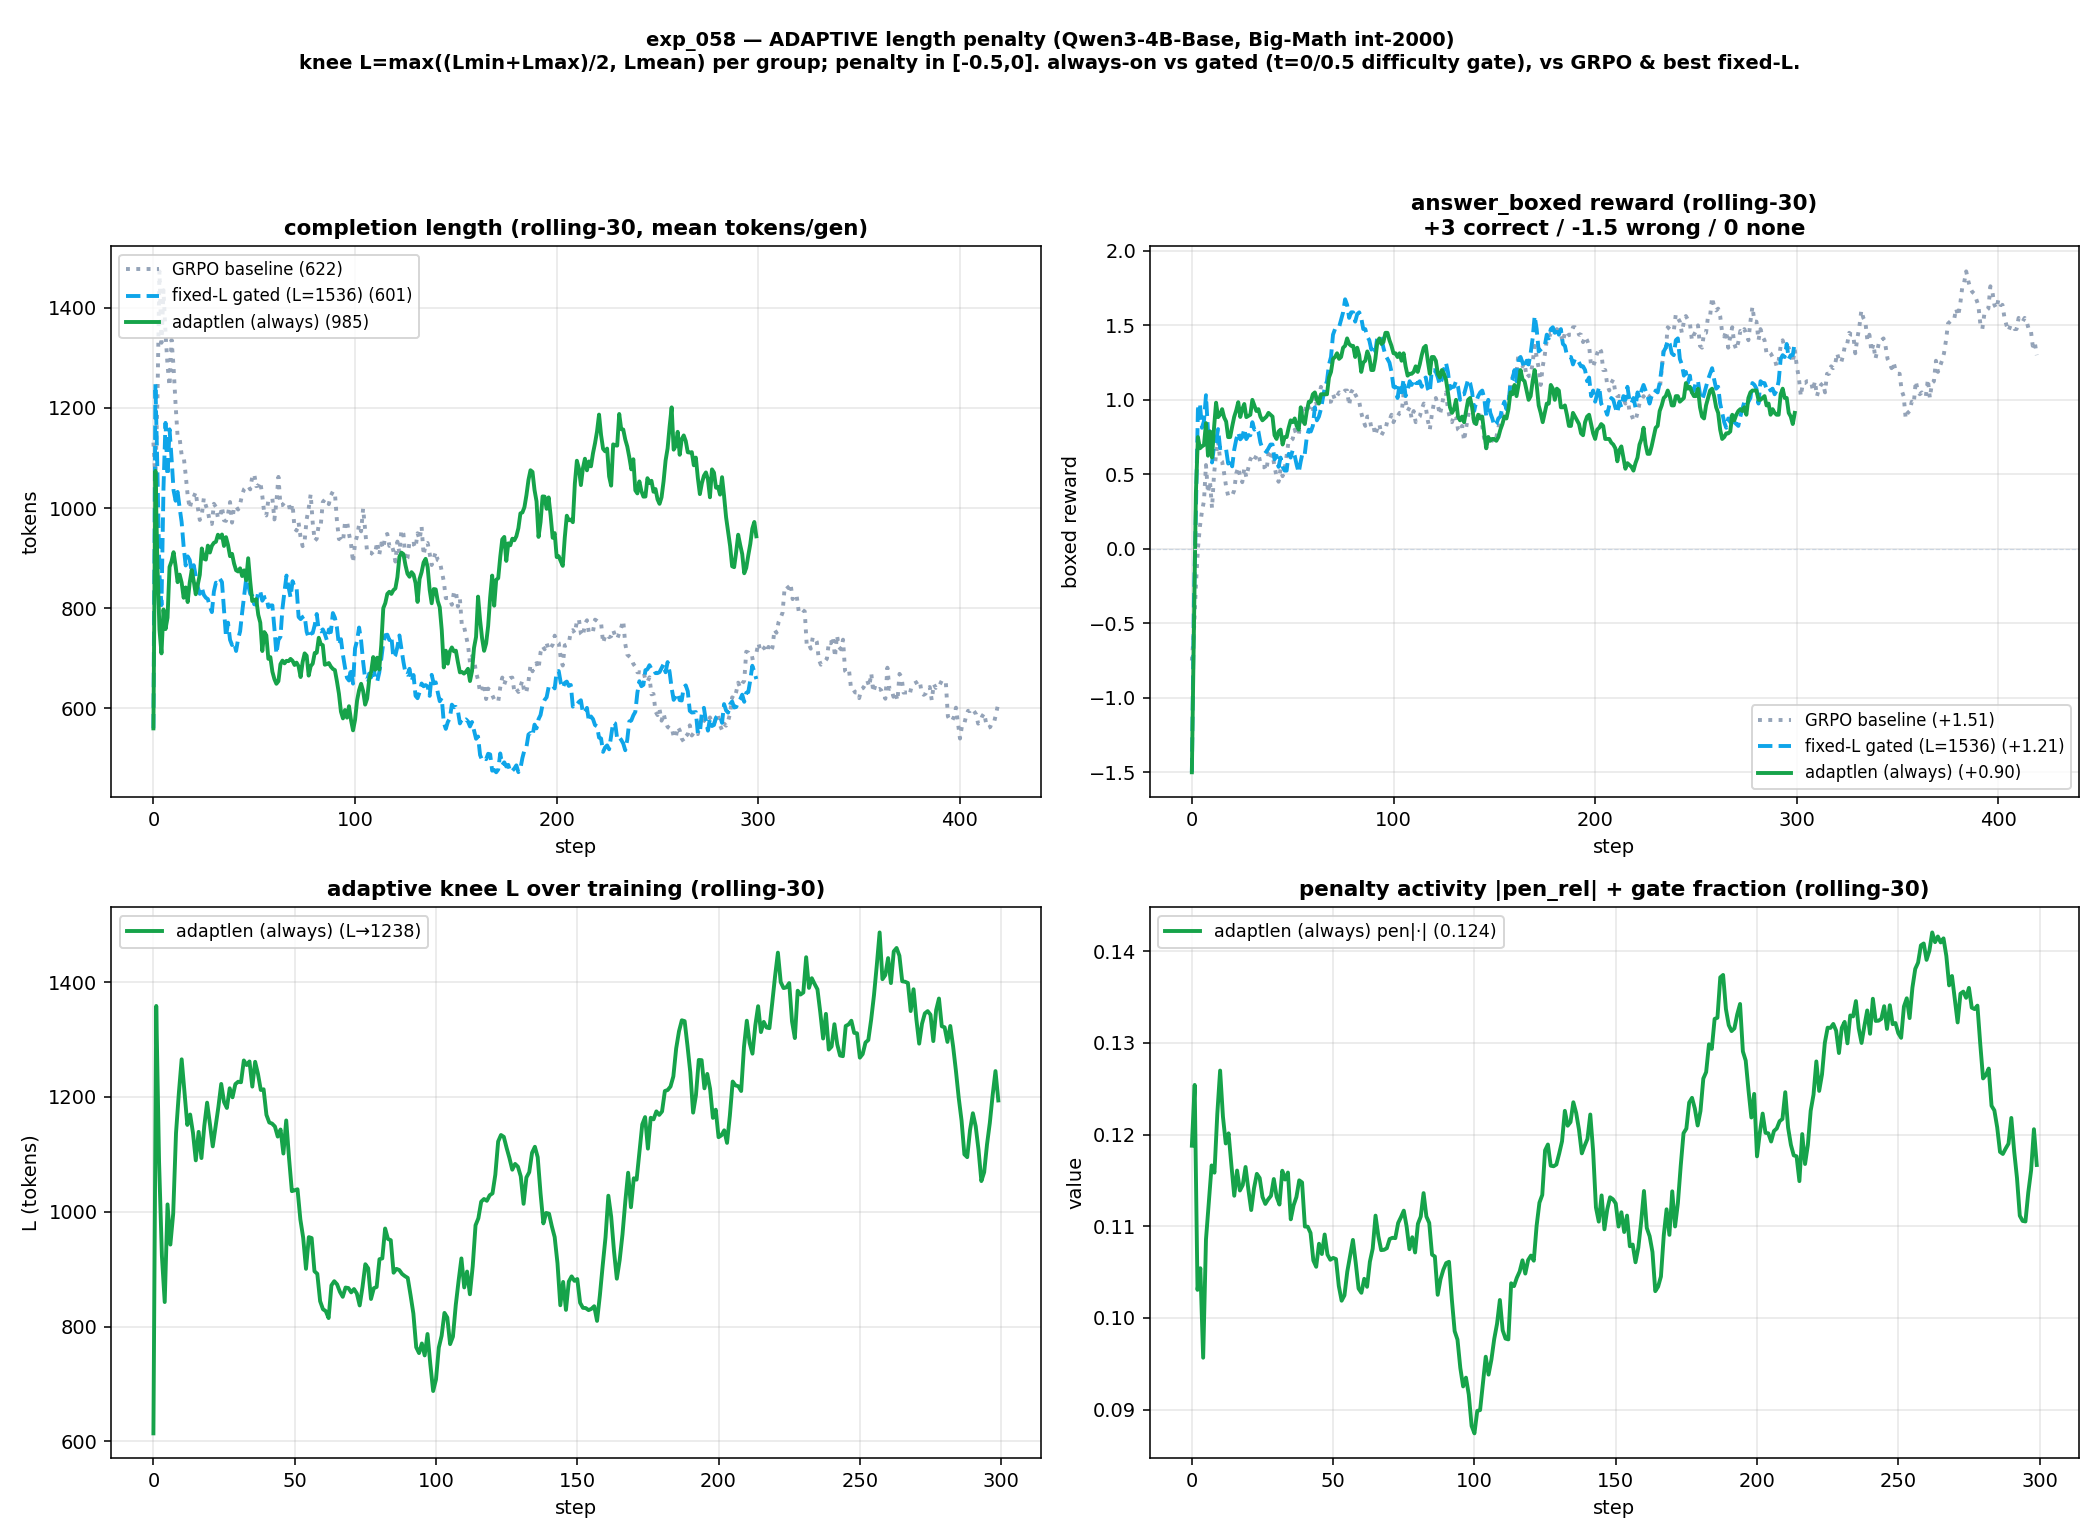
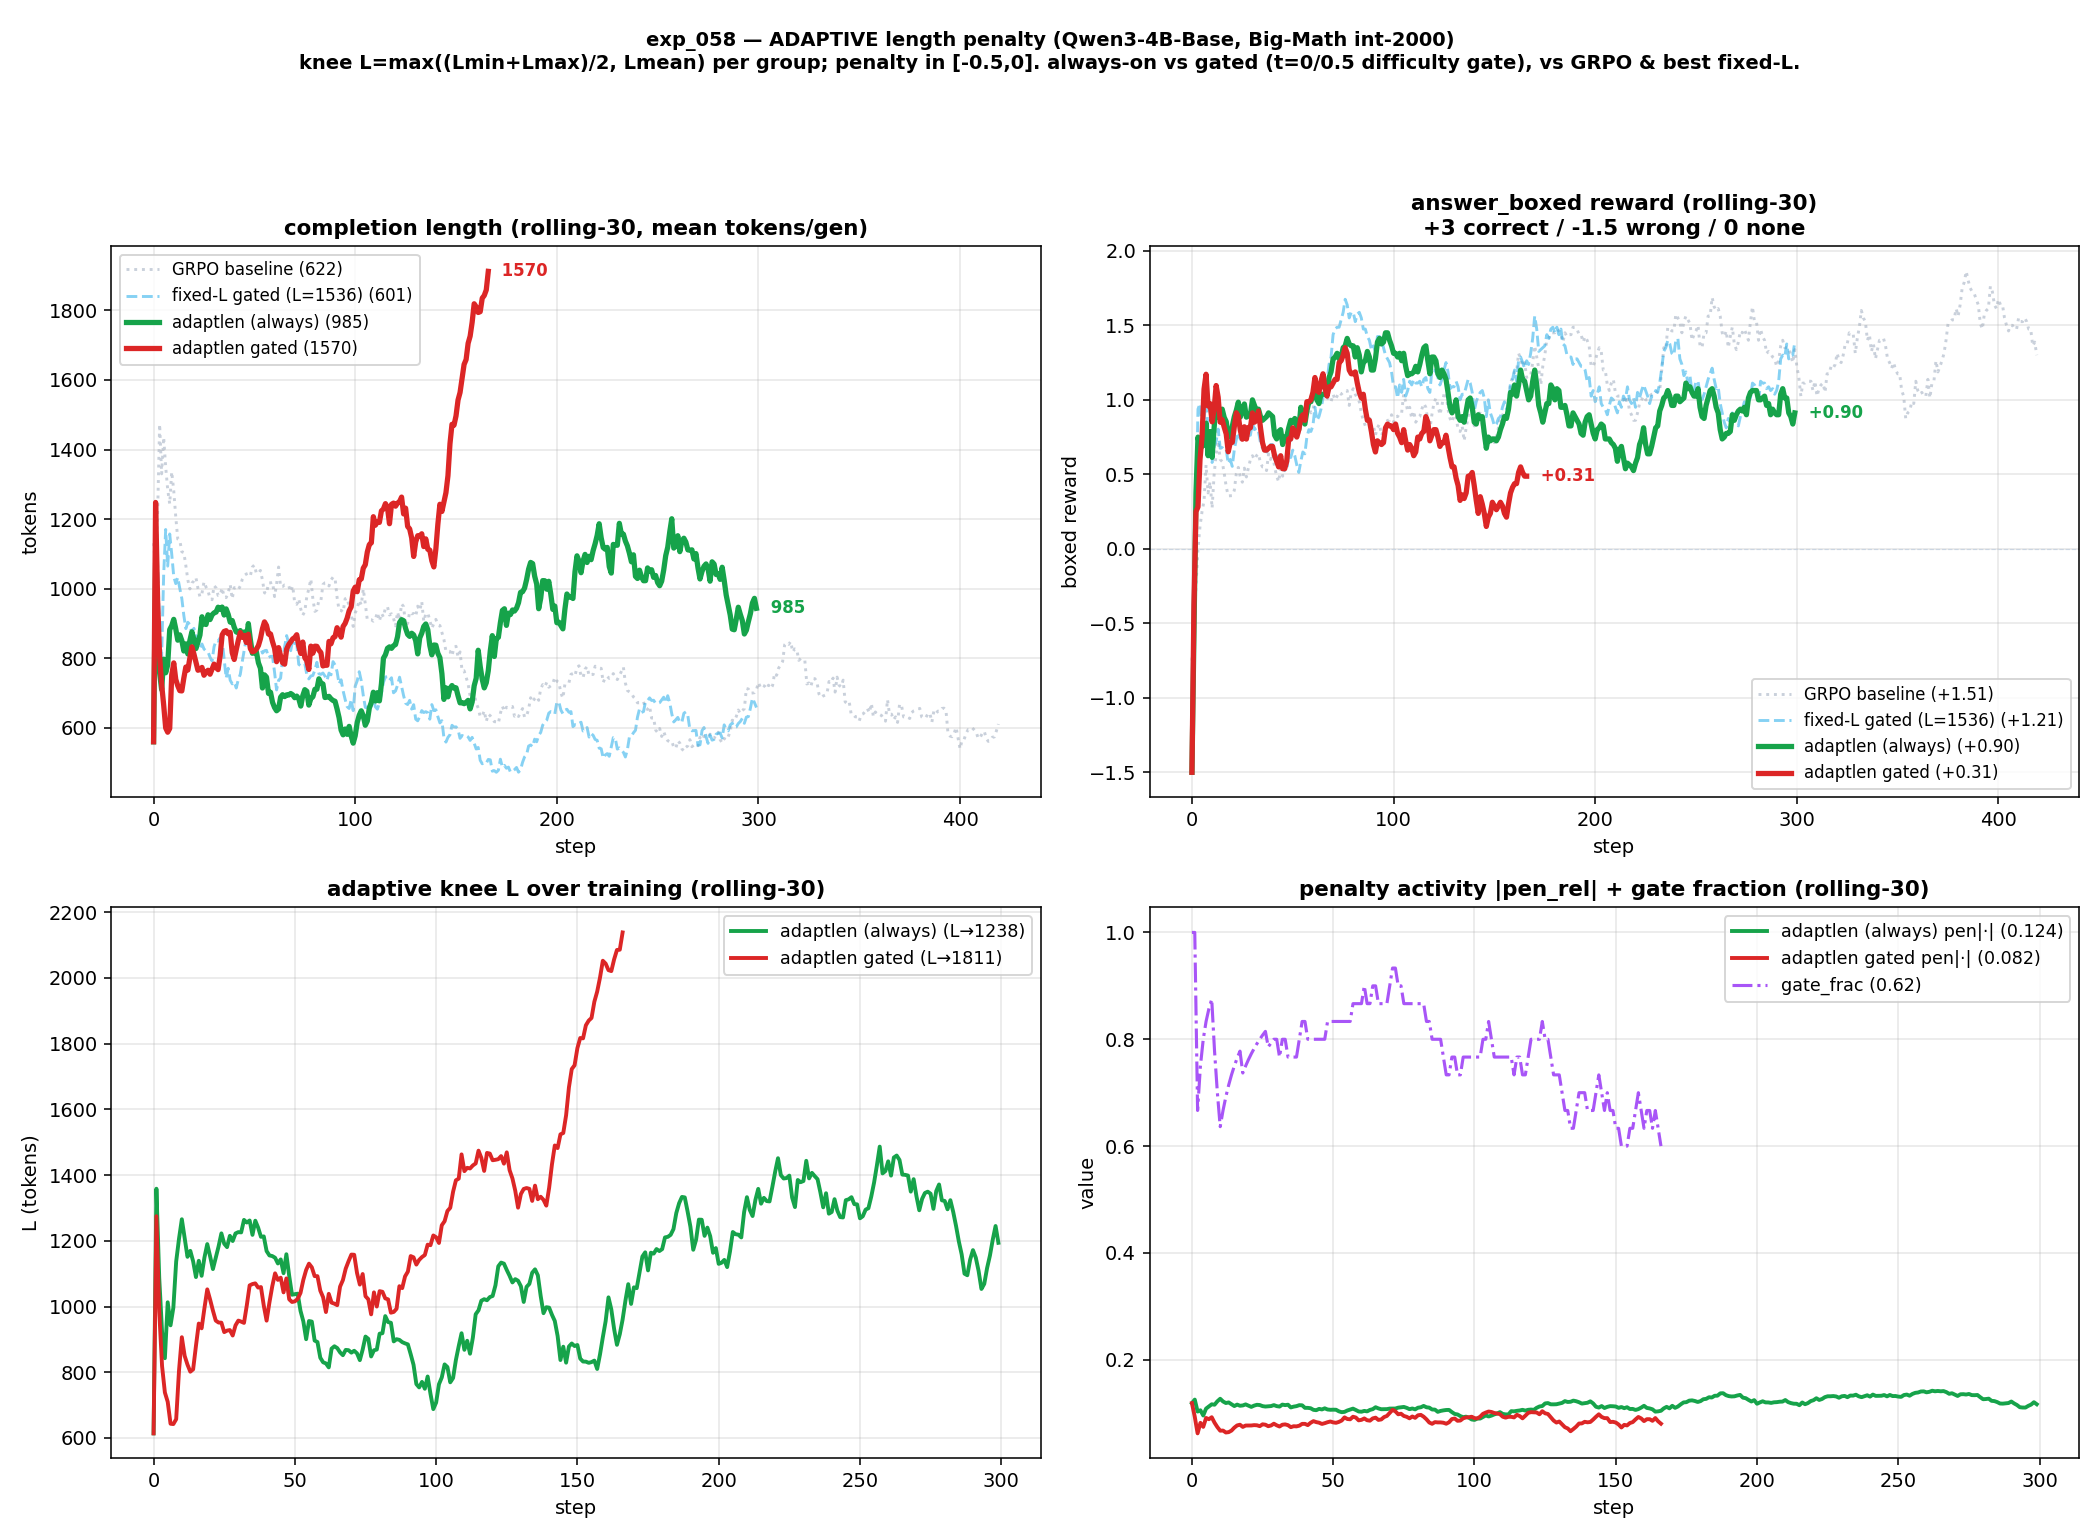
exp_058: adaptlen plot — emphasize the two adaptive curves (boxed dynamics now legible)
Focal curves (adaptlen always, adaptlen gated) at lw=2.7/zorder=5 with end-value
labels; GRPO & fixed-L references faded (lw=1.5/alpha=0.5). Boxed panel now shows
adaptlen always ~+0.90 (stable) and adaptlen gated declining to +0.31 as its
length drifts up — gated adaptive penalty trends toward length-drift.

diff --git a/experiments/exp_058_qwen3base_bigmath_int2k_4way/plot_adaptlen.py b/experiments/exp_058_qwen3base_bigmath_int2k_4way/plot_adaptlen.py
@@ -42,15 +42,25 @@ fig, ((axl, axb), (axL, axp)) = plt.subplots(2, 2, figsize=(15, 11))
 
 rows = []
 for fn, label, c, ls in CURVES:
+    focal = "adaptlen" in fn                      # the two new methods = focal
+    lw    = 2.7 if focal else 1.5
+    alpha = 1.0 if focal else 0.5
+    z     = 5 if focal else 1
     p = os.path.join(HERE, fn)
     cl = col(p, "completions/mean_length")
     bx = col(p, "reward_answer_boxed/mean")
     if cl:
-        ys = rolling(cl); axl.plot(range(len(ys)), ys, color=c, ls=ls, lw=2.0,
-                                   label=f"{label} ({last_mean(cl):.0f})")
+        ys = rolling(cl); axl.plot(range(len(ys)), ys, color=c, ls=ls, lw=lw, alpha=alpha,
+                                   zorder=z, label=f"{label} ({last_mean(cl):.0f})")
+        if focal:
+            axl.text(len(ys)+3, ys[-1], f" {last_mean(cl):.0f}", color=c, fontsize=8.5,
+                     va="center", weight="bold", zorder=6)
     if bx:
-        ys = rolling(bx); axb.plot(range(len(ys)), ys, color=c, ls=ls, lw=2.0,
-                                   label=f"{label} ({last_mean(bx):+.2f})")
+        ys = rolling(bx); axb.plot(range(len(ys)), ys, color=c, ls=ls, lw=lw, alpha=alpha,
+                                   zorder=z, label=f"{label} ({last_mean(bx):+.2f})")
+        if focal:
+            axb.text(len(ys)+3, ys[-1], f" {last_mean(bx):+.2f}", color=c, fontsize=8.5,
+                     va="center", weight="bold", zorder=6)
     if cl or bx:
         rows.append((label, last_mean(cl) if cl else float("nan"),
                      last_mean(bx) if bx else float("nan"), len(bx or cl)))
